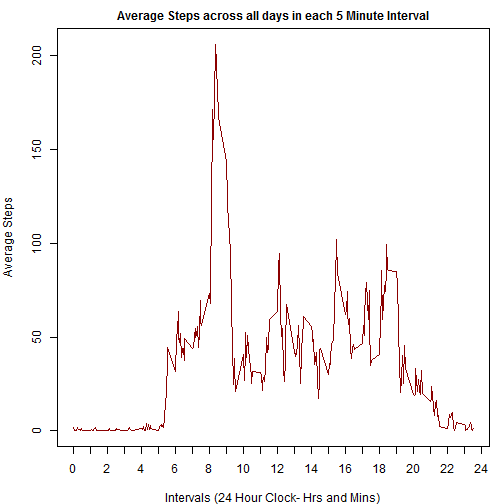
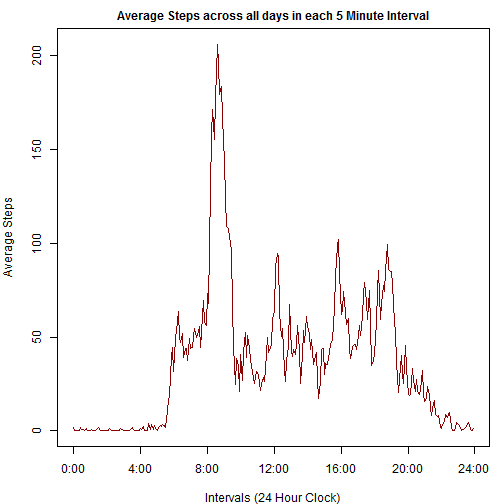
corrected for equidistant intervals

diff --git a/PA1_template.html b/PA1_template.html
@@ -227,18 +227,19 @@ library(ggplot2)
 
 <h2>Pre-Process the data</h2>
 
-<p>The raw data file uses military time, treating the numbers as integers. Due to this intervals have a jump at each hour mark, which is problematic in a time series plot. This issue is corrected to get equidistant intervals.
-The 24 hour clock is maintained, so that the intervals in a day vary from 0.00 to 23.55.</p>
+<p>The raw data file uses military time, treating the numbers as integers. Due to this intervals have a jump at each hour mark, which is problematic in a time series plot. To correct this,the intervals are converted to minutes. Each day has 1440 minutes, with intervals ranging from 0 to 1435. The 24 hour clock is maintained. </p>
 
 <pre><code class="r">    hours &lt;- trunc(activitytable$interval/100)
     mins &lt;- activitytable$interval-100*hours
-    activitytable &lt;-mutate(activitytable, times = hours+(mins/100)) 
-   # Note: The new variable &quot;times&quot; has hour and minute of for each 24 hour day with the format &quot;hours.minutes&quot; at 5 minute,equidistant intervals.
+    activitytable &lt;- mutate(activitytable, minutes = (hours*60+mins) ) #minutes
+    activitytable$date &lt;- as.Date(activitytable$date) #date variable class
+
+    # Note: The new variable minutes has the minutes of the day at 5 minute,equidistant intervals.
 </code></pre>
 
 <h2>Remove NA Values</h2>
 
-<p>Some analysis is done before removing the NA values to undersatnd the data set better. The %age of NA values is computed. Also, the % age of data for which the steps monitored are zero is also found. </p>
+<p>Some analysis is done before removing the NA values to undersatnd the data set better. The %age of NA values in the data set is computed. Also, the % age of data for which the steps monitored are zero is also found. </p>
 
 <pre><code class="r">    bad &lt;-is.na(activitytable$steps) # there are NA values only in this variable
     napercent &lt;- trunc((sum(bad)/nrow(activitytable))*100)
@@ -281,38 +282,42 @@ So, it is hypothesized that removing the NA observations will not affect the res
    mediantotdailystep &lt;-median(totalsteps$sumsteps)
 </code></pre>
 
-<p>The mean of the total steps each day is 10766.19</p>
+<p>The mean of the total steps in a day is 10766.19</p>
 
-<p>The median of the total steps each day is 10765</p>
+<p>The median of the total steps in a day is 10765</p>
 
 <h2>Average Daily Pattern for each 5 minute interval</h2>
 
 <p>The average steps of each 5 minute interval on every day is computed.(Note: the NA values have been removed)</p>
 
-<pre><code class="r">    intervaltable &lt;- group_by(subsettable,times)
+<pre><code class="r">    intervaltable &lt;- group_by(subsettable,minutes)
     avesteptable &lt;- summarise(intervaltable,mean(steps))
     colnames(avesteptable) &lt;- c(&quot;times&quot;,  &quot;averagesteps&quot;)
 </code></pre>
 
 <p>A plot of average steps in each 5 minute interval across all days is made as below.</p>
 
-<pre><code class="r">    par(cex=0.5,lty =1, lab= c(24,5,7))
+<pre><code class="r">    par(cex=0.5,lty =1, lab= c(7,5,7))
+    mylabels &lt;- c(&quot;0:00&quot;, &quot;4:00&quot;,&quot;8:00&quot;, &quot;12:00&quot;, &quot;16:00&quot;, &quot;20:00&quot;,&quot;24:00&quot;)
     par(mfrow = c(1,1))
     par(mar = c(4,4,2,1))
     plot(averagesteps ~ times, data= avesteptable, type =&quot;l&quot;,                    
-    xlab= &quot;Intervals (24 Hour Clock- Hrs and Mins)&quot;,ylab =&quot;Average Steps&quot;,
-    col = &quot;dark red&quot;)
+    xlab= &quot;Intervals (24 Hour Clock)&quot;,ylab =&quot;Average Steps&quot;,
+    col = &quot;dark red&quot;, xaxt = &quot;n&quot;)
+    axis(1, at= c(0,240,480,720, 960,1200,1440), labels = mylabels)
     title(&quot;Average Steps across all days in each 5 Minute Interval&quot;, cex.main=1,        font.main=2)
 </code></pre>
 
[2 lines of base64/hex data omitted]
 
 <p>The interval with the highest average number of steps is computed.</p>
 
 <pre><code class="r">   highestinterval &lt;- avesteptable$times[which.max(avesteptable$averagestep)]
+    highestintervalhrs&lt;- trunc(highestinterval/60)
+    highestintervalmins&lt;- highestinterval-highestintervalhrs*60
 </code></pre>
 
-<p>The interval with the highest average steps occurs at 8.35 ( that is 8 hours 35 minutes)</p>
+<p>The interval with the highest average steps occurs at 515 minutes, that is at 8 hours 35 minutes.</p>
 
 <h2>Impute Missing Values</h2>
 
@@ -323,8 +328,8 @@ So, it is hypothesized that removing the NA observations will not affect the res
 
 <p>There are 2304 missing values in the data set.</p>
 
-<p>The missing values are imputed with the mean value for that 5 minute interval across all days. 
-The Average steps computed for the previous question can be used for this purpose.A new dataset is created with the imputed values.</p>
+<p>The strategy adopted for imputing the missing values, is to use the mean value for that 5 minute interval across all days. 
+The Average steps of each interval computed for the previous question can be used for this purpose.A new dataset is created with the imputed values.</p>
 
 <pre><code class="r">    temp &lt;- rep(avesteptable$averagesteps, nrow(activitytable)/nrow(avesteptable    ))
     imputetable &lt;- cbind(activitytable,temp)
@@ -405,22 +410,22 @@ The histogram of the table with NA values removed  is plotted below it for ease 
 
 <p>The average steps for each 5 minute interval is calculated for workdays and weekend categories.</p>
 
-<pre><code class="r">    intervaltable2 &lt;- group_by(imputetable,dayofweek, times)
+<pre><code class="r">    intervaltable2 &lt;- group_by(imputetable,dayofweek, minutes)
     avesteptable2 &lt;- summarise(intervaltable2,mean(steps))
     colnames(avesteptable2) &lt;- c(&quot;dayofweek&quot;,&quot;times&quot;,&quot;averagesteps&quot;)
 </code></pre>
 
 <p>A panel plot of the average steps in each five minute interval is made for weekends and work day categories.</p>
 
-<pre><code class="r">    ggplot(avesteptable2, aes(times, averagesteps)) +
-    geom_line(aes(group=1, color=dayofweek)) +
-    facet_grid(.~ dayofweek) +
-    labs(title = &quot;Average Steps in Each Interval(across all days)&quot;) +
-    labs(x =&quot;Intervals (24 Hour Clock)&quot;, y =&quot;Average Steps&quot;) +
-    theme_bw(base_family = &quot;&quot;, base_size = 12)
+<pre><code class="r">        ggplot(avesteptable2, aes(times, averagesteps)) +
+        geom_line(aes(group=1, color=dayofweek)) +
+        facet_grid(.~ dayofweek) +
+        labs(title = &quot;Average Steps in Each Interval(across all days)&quot;) +
+        labs(x =&quot;Intervals (24 Hour Clock)&quot;, y =&quot;Average Steps&quot;) +
+        scale_x_continuous(breaks = c(0,240,480,720, 960,1200,1440), labels=mylabels)
 </code></pre>
 
[2 lines of base64/hex data omitted]
 
 <p>The difference between Workdays and Weekends can also be seen in the summary below.</p>
 
@@ -437,6 +442,9 @@ The histogram of the table with NA values removed  is plotted below it for ease 
 <pre><code>##    Min. 1st Qu.  Median    Mean 3rd Qu.    Max. 
 ##       0       1      32      42      75     167
 </code></pre>
+
+<p>There is difference between the working day and weekend patterns. On working days there is a clear peak at 8 hours 35 minutes. There is less activity during the day, picking up in the evening.
+On weekends, the pattern is more evenly distributed, with multiple peeks during the day. Further anlaysis will be needed to understand the reasons.</p>
 
 <h1>Delete Interim Tables</h1>
 

diff --git a/PA1_template.md b/PA1_template.md
@@ -34,19 +34,20 @@ activitytable <- read.csv("activity.csv")
 ```
 
 ## Pre-Process the data
-The raw data file uses military time, treating the numbers as integers. Due to this intervals have a jump at each hour mark, which is problematic in a time series plot. This issue is corrected to get equidistant intervals.
-The 24 hour clock is maintained, so that the intervals in a day vary from 0.00 to 23.55.
+The raw data file uses military time, treating the numbers as integers. Due to this intervals have a jump at each hour mark, which is problematic in a time series plot. To correct this,the intervals are converted to minutes. Each day has 1440 minutes, with intervals ranging from 0 to 1435. The 24 hour clock is maintained. 
 
 
 ```r
     hours <- trunc(activitytable$interval/100)
     mins <- activitytable$interval-100*hours
-    activitytable <-mutate(activitytable, times = hours+(mins/100)) 
-   # Note: The new variable "times" has hour and minute of for each 24 hour day with the format "hours.minutes" at 5 minute,equidistant intervals.
+    activitytable <- mutate(activitytable, minutes = (hours*60+mins) ) #minutes
+    activitytable$date <- as.Date(activitytable$date) #date variable class
+
+    # Note: The new variable minutes has the minutes of the day at 5 minute,equidistant intervals.
 ```
 
 ## Remove NA Values
-Some analysis is done before removing the NA values to undersatnd the data set better. The %age of NA values is computed. Also, the % age of data for which the steps monitored are zero is also found. 
+Some analysis is done before removing the NA values to undersatnd the data set better. The %age of NA values in the data set is computed. Also, the % age of data for which the steps monitored are zero is also found. 
 
 
 ```r
@@ -99,9 +100,9 @@ Mean and Median values of the Daily Total Steps are as below.
    mediantotdailystep <-median(totalsteps$sumsteps)
 ```
 
-The mean of the total steps each day is 10766.19
+The mean of the total steps in a day is 10766.19
 
-The median of the total steps each day is 10765
+The median of the total steps in a day is 10765
 
 ## Average Daily Pattern for each 5 minute interval
 
@@ -109,7 +110,7 @@ The average steps of each 5 minute interval on every day is computed.(Note: the 
 
 
 ```r
-    intervaltable <- group_by(subsettable,times)
+    intervaltable <- group_by(subsettable,minutes)
     avesteptable <- summarise(intervaltable,mean(steps))
     colnames(avesteptable) <- c("times",  "averagesteps")
 ```
@@ -117,12 +118,14 @@ A plot of average steps in each 5 minute interval across all days is made as bel
 
 
 ```r
-    par(cex=0.5,lty =1, lab= c(24,5,7))
+    par(cex=0.5,lty =1, lab= c(7,5,7))
+    mylabels <- c("0:00", "4:00","8:00", "12:00", "16:00", "20:00","24:00")
     par(mfrow = c(1,1))
     par(mar = c(4,4,2,1))
     plot(averagesteps ~ times, data= avesteptable, type ="l",                    
-    xlab= "Intervals (24 Hour Clock- Hrs and Mins)",ylab ="Average Steps",
-    col = "dark red")
+    xlab= "Intervals (24 Hour Clock)",ylab ="Average Steps",
+    col = "dark red", xaxt = "n")
+    axis(1, at= c(0,240,480,720, 960,1200,1440), labels = mylabels)
     title("Average Steps across all days in each 5 Minute Interval", cex.main=1,        font.main=2)
 ```
 
@@ -133,9 +136,11 @@ The interval with the highest average number of steps is computed.
 
 ```r
    highestinterval <- avesteptable$times[which.max(avesteptable$averagestep)]
+    highestintervalhrs<- trunc(highestinterval/60)
+    highestintervalmins<- highestinterval-highestintervalhrs*60
 ```
 
-The interval with the highest average steps occurs at 8.35 ( that is 8 hours 35 minutes)
+The interval with the highest average steps occurs at 515 minutes, that is at 8 hours 35 minutes.
 
 
 ## Impute Missing Values
@@ -149,8 +154,8 @@ Compute the missing values
 
 There are 2304 missing values in the data set.
 
-The missing values are imputed with the mean value for that 5 minute interval across all days. 
-The Average steps computed for the previous question can be used for this purpose.A new dataset is created with the imputed values.
+The strategy adopted for imputing the missing values, is to use the mean value for that 5 minute interval across all days. 
+The Average steps of each interval computed for the previous question can be used for this purpose.A new dataset is created with the imputed values.
 
 
 ```r
@@ -245,7 +250,7 @@ The average steps for each 5 minute interval is calculated for workdays and week
 
 
 ```r
-    intervaltable2 <- group_by(imputetable,dayofweek, times)
+    intervaltable2 <- group_by(imputetable,dayofweek, minutes)
     avesteptable2 <- summarise(intervaltable2,mean(steps))
     colnames(avesteptable2) <- c("dayofweek","times","averagesteps")
 ```
@@ -254,12 +259,12 @@ A panel plot of the average steps in each five minute interval is made for weeke
 
 
 ```r
-    ggplot(avesteptable2, aes(times, averagesteps)) +
-    geom_line(aes(group=1, color=dayofweek)) +
-    facet_grid(.~ dayofweek) +
-    labs(title = "Average Steps in Each Interval(across all days)") +
-    labs(x ="Intervals (24 Hour Clock)", y ="Average Steps") +
-    theme_bw(base_family = "", base_size = 12)
+        ggplot(avesteptable2, aes(times, averagesteps)) +
+        geom_line(aes(group=1, color=dayofweek)) +
+        facet_grid(.~ dayofweek) +
+        labs(title = "Average Steps in Each Interval(across all days)") +
+        labs(x ="Intervals (24 Hour Clock)", y ="Average Steps") +
+        scale_x_continuous(breaks = c(0,240,480,720, 960,1200,1440), labels=mylabels)
 ```
 
 ![plot of chunk ggplot](figure/ggplot-1.png) 
@@ -284,6 +289,9 @@ summary(subset(avesteptable2, dayofweek =="Weekend")$averagesteps)
 ##    Min. 1st Qu.  Median    Mean 3rd Qu.    Max. 
 ##       0       1      32      42      75     167
 ```
+
+There is difference between the working day and weekend patterns. On working days there is a clear peak at 8 hours 35 minutes. There is less activity during the day, picking up in the evening.
+On weekends, the pattern is more evenly distributed, with multiple peeks during the day. Further anlaysis will be needed to understand the reasons.
 
 # Delete Interim Tables
 
